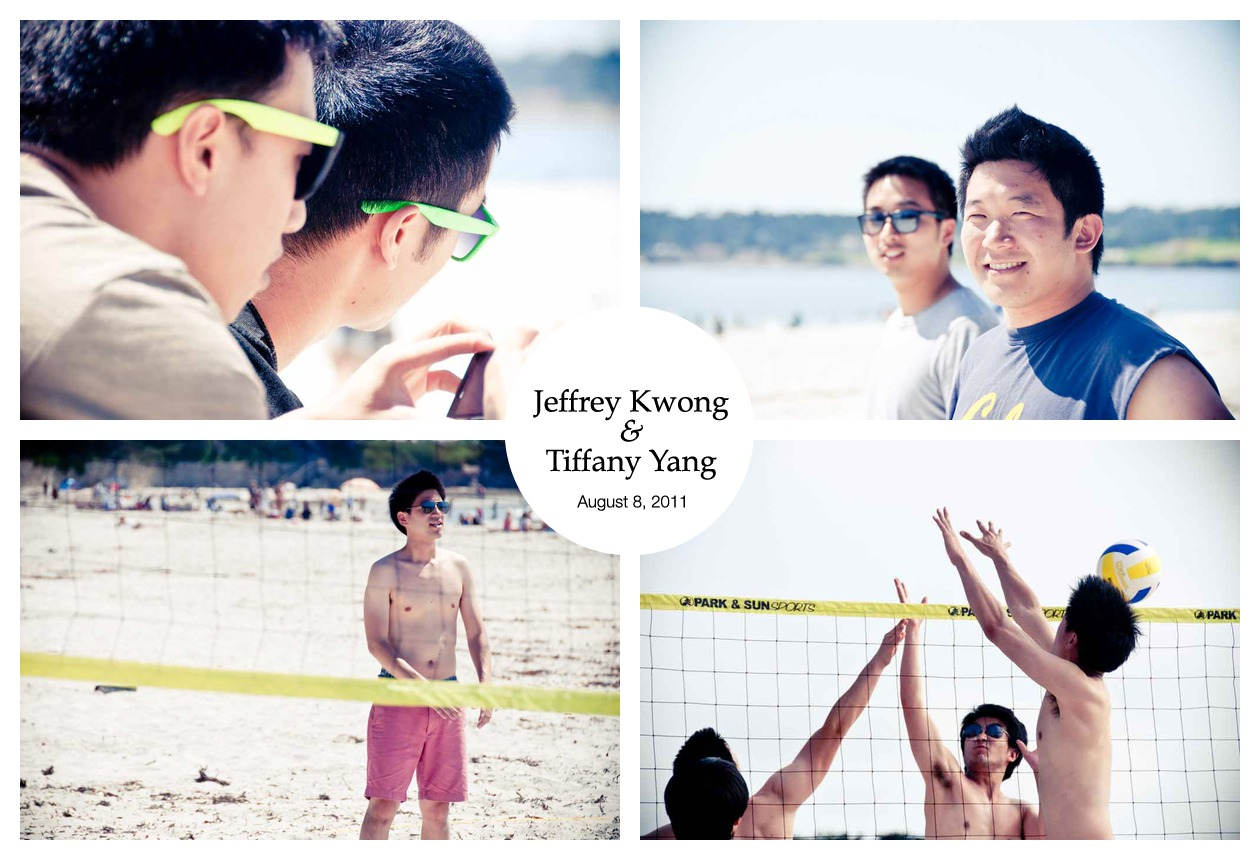
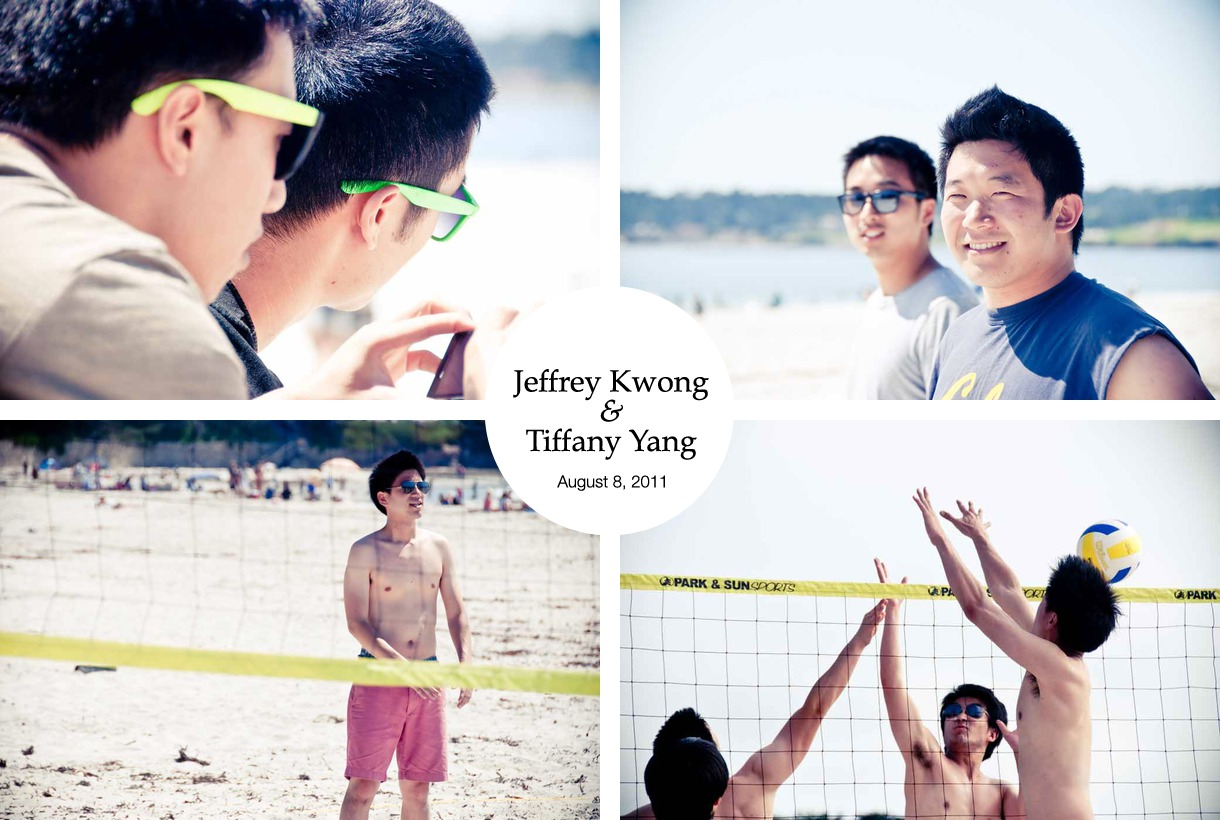
hooked up composite generation

diff --git a/boink/app/models/photo_set.rb b/boink/app/models/photo_set.rb
@@ -40,10 +40,28 @@ class PhotoSet < ActiveRecord::Base
     return "#{Rails.public_path}/images/overlay.png"
   end
   
+  def composite_photos
+    comp = Image.new(IMAGE_WIDTH * 2 + IMAGE_PADDING, IMAGE_HEIGHT * 2 + IMAGE_PADDING) { self.background_color = "white" }
+    
+    tl_photo = ImageList.new(get_folder_path + "boink_1.jpg").resize_to_fill(IMAGE_WIDTH, IMAGE_HEIGHT)
+    tr_photo = ImageList.new(get_folder_path + "boink_2.jpg").resize_to_fill(IMAGE_WIDTH, IMAGE_HEIGHT)
+    bl_photo = ImageList.new(get_folder_path + "boink_3.jpg").resize_to_fill(IMAGE_WIDTH, IMAGE_HEIGHT)
+    br_photo = ImageList.new(get_folder_path + "boink_4.jpg").resize_to_fill(IMAGE_WIDTH, IMAGE_HEIGHT)
+    
+    overlay = ImageList.new(PhotoSet.get_overlay_path)
+    
+    comp = comp.composite(tl_photo, 0, 0, OverCompositeOp)
+    comp = comp.composite(tr_photo, IMAGE_WIDTH + IMAGE_PADDING, 0, OverCompositeOp)
+    comp = comp.composite(bl_photo, 0, IMAGE_HEIGHT + IMAGE_PADDING, OverCompositeOp)
+    comp = comp.composite(br_photo, IMAGE_WIDTH + IMAGE_PADDING, IMAGE_HEIGHT + IMAGE_PADDING, OverCompositeOp)
+    comp = comp.composite(overlay, ((comp.columns - overlay.columns)/2).round, ((comp.rows - overlay.rows)/2).round, OverCompositeOp)
+    comp.write(tmp_path + "photos/gen.jpg")    
+  end
+  
   # Takes the photos in this PhotoSet and composites them with RMagick
-  def self.composite_photos
+  def self.composite_test
     tmp_path = "#{Rails.public_path}/images/"
-    comp = Image.new(IMAGE_WIDTH * 2 + IMAGE_PADDING * 3, IMAGE_HEIGHT * 2 + IMAGE_PADDING * 3) { self.background_color = "white" }
+    comp = Image.new(IMAGE_WIDTH * 2 + IMAGE_PADDING, IMAGE_HEIGHT * 2 + IMAGE_PADDING) { self.background_color = "white" }
     
     tl_photo = ImageList.new(tmp_path + "photos/1.jpg").resize_to_fill(IMAGE_WIDTH, IMAGE_HEIGHT)
     tr_photo = ImageList.new(tmp_path + "photos/2.jpg").resize_to_fill(IMAGE_WIDTH, IMAGE_HEIGHT)
@@ -52,10 +70,10 @@ class PhotoSet < ActiveRecord::Base
     
     overlay = ImageList.new(tmp_path + "overlay.png")
     
-    comp = comp.composite(tl_photo, IMAGE_PADDING, IMAGE_PADDING, OverCompositeOp)
-    comp = comp.composite(tr_photo, IMAGE_WIDTH + IMAGE_PADDING * 2, IMAGE_PADDING, OverCompositeOp)
-    comp = comp.composite(bl_photo, IMAGE_PADDING, IMAGE_HEIGHT + IMAGE_PADDING * 2, OverCompositeOp)
-    comp = comp.composite(br_photo, IMAGE_WIDTH + IMAGE_PADDING * 2, IMAGE_HEIGHT + IMAGE_PADDING * 2, OverCompositeOp)
+    comp = comp.composite(tl_photo, 0, 0, OverCompositeOp)
+    comp = comp.composite(tr_photo, IMAGE_WIDTH + IMAGE_PADDING, 0, OverCompositeOp)
+    comp = comp.composite(bl_photo, 0, IMAGE_HEIGHT + IMAGE_PADDING, OverCompositeOp)
+    comp = comp.composite(br_photo, IMAGE_WIDTH + IMAGE_PADDING, IMAGE_HEIGHT + IMAGE_PADDING, OverCompositeOp)
     comp = comp.composite(overlay, ((comp.columns - overlay.columns)/2).round, ((comp.rows - overlay.rows)/2).round, OverCompositeOp)
     comp.write(tmp_path + "photos/gen.jpg")
   end

diff --git a/boink/lib/camera_snap_job.rb b/boink/lib/camera_snap_job.rb
@@ -29,6 +29,7 @@ class CameraSnapJob < Struct.new(:photoset, :idx)
     # Store the filename in the photoset object.
     photoset.set_image_path(idx, url_image_path)
     Rails.logger.debug "AHAO Saved new image into PhotoSet path: #{photoset.get_paths}"
+    photoset.composite_photos
   end
   
   def failure(job)
